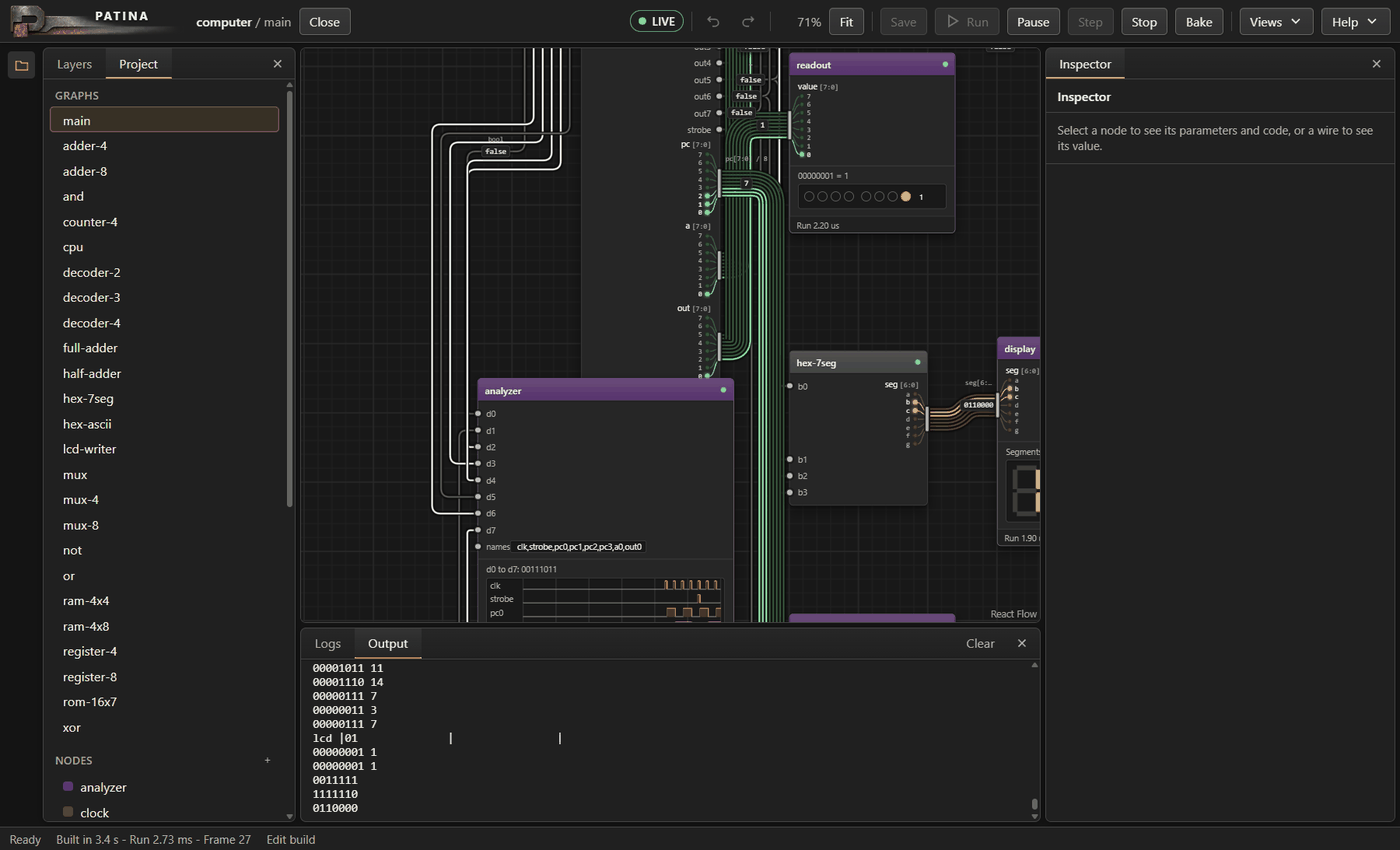
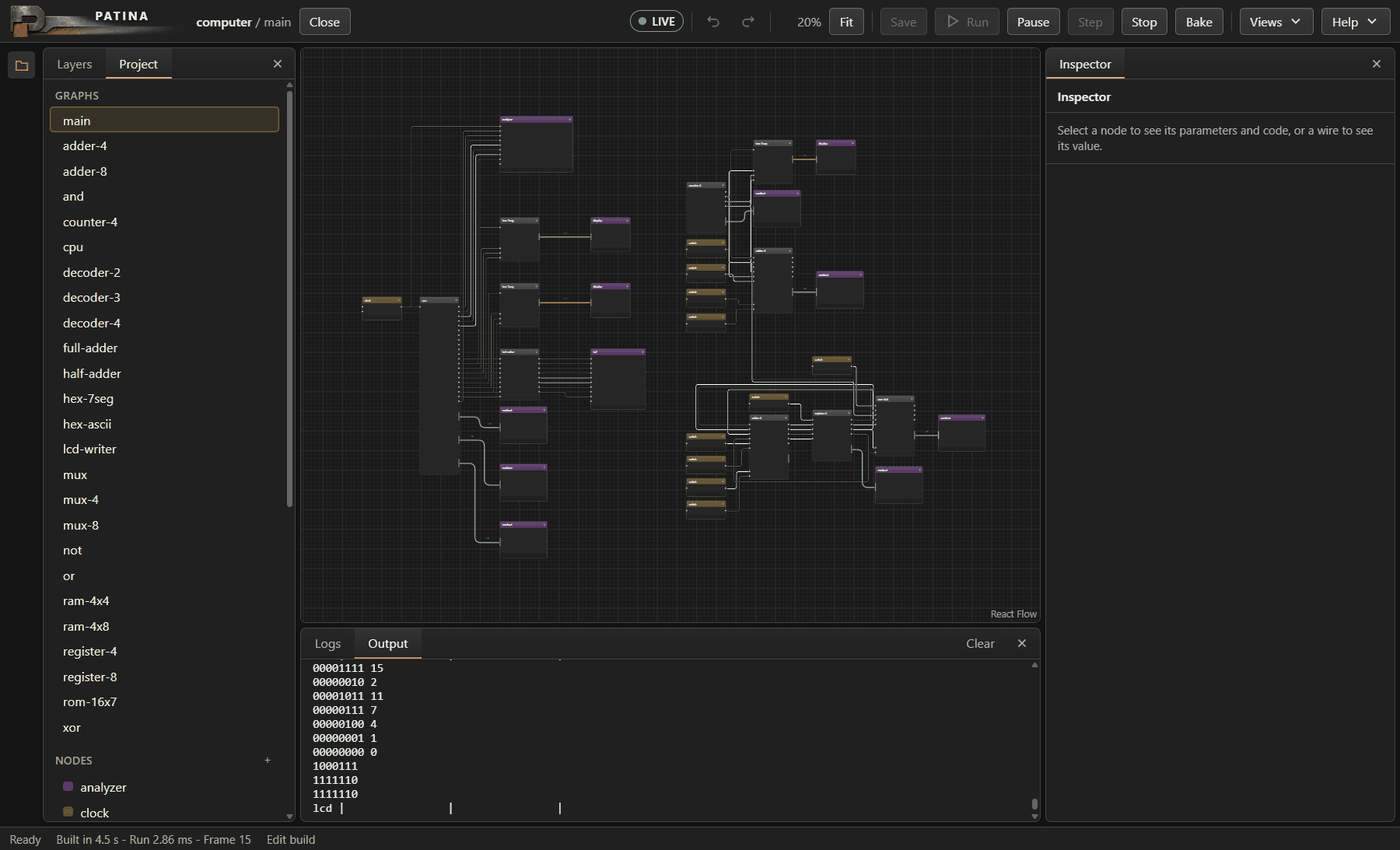
Lay out the computer main graph in wide bands and hide covered badges
- Put the CPU, the displays and the LCD at the left, the counter and the
  adder at the upper right, and the accumulator and the RAM at the lower
  right. The CPU bits now go straight to the lcd-writer.
- Give the lcd process the args d0 to d7 first, then write and clear.
- Hide a value badge when the shown badge of another wire covers it.
- Show the type of the input for a delay output, so a register wire
  shows bool and not T. This applies in the engine infos and the editor.
- Update the README images and the STATUS plan.

diff --git a/crates/patina-editor/frontend/src/labels.ts b/crates/patina-editor/frontend/src/labels.ts
@@ -9,6 +9,7 @@ interface Entry {
   /** A lower rank shows first. A label with a rank below 0 always shows. */
   rank: number;
   hidden: boolean;
+  badgeHidden: boolean;
 }
 
 const overlap = (a: Rect, b: Rect) => a.l < b.r && b.l < a.r && a.t < b.b && b.t < a.b;
@@ -28,7 +29,7 @@ export class Labels {
   set(id: string, label: Rect | null, badge: Rect | null, rank: number) {
     const e = this.entries.get(id);
     if (e) Object.assign(e, { label, badge, rank });
-    else this.entries.set(id, { id, label, badge, rank, hidden: false });
+    else this.entries.set(id, { id, label, badge, rank, hidden: false, badgeHidden: false });
     this.queue();
   }
 
@@ -42,6 +43,8 @@ export class Labels {
   }
 
   hidden = (id: string): boolean => this.entries.get(id)?.hidden ?? false;
+
+  badgeHidden = (id: string): boolean => this.entries.get(id)?.badgeHidden ?? false;
 
   subscribe = (f: () => void) => {
     this.listeners.add(f);
@@ -57,24 +60,31 @@ export class Labels {
     });
   }
 
-  /** Shows the labels in the order of their rank. Each label hides when a shown box covers it. */
+  /**
+   * Shows the badges, then the labels, in the order of their rank. A badge hides when a shown badge
+   * covers it. A label hides when a shown box covers it.
+   */
   compute() {
     const order = this.order;
     order.length = 0;
     let changed = false;
-    for (const e of this.entries.values()) {
-      if (e.label) order.push(e);
-      else if (e.hidden) [e.hidden, changed] = [false, true];
-    }
+    for (const e of this.entries.values()) order.push(e);
     order.sort((a, b) => a.rank - b.rank || (a.id < b.id ? -1 : a.id > b.id ? 1 : 0));
+    const shown = (o: Entry) => o.badge !== null && !o.badgeHidden;
     for (let i = 0; i < order.length; i++) {
       const e = order[i];
-      const box = e.label!;
       let hide = false;
-      if (e.rank >= 0) {
+      if (e.badge && e.rank >= 0) for (let j = 0; j < i && !hide; j++) hide = shown(order[j]) && overlap(e.badge, order[j].badge!);
+      if (e.badgeHidden !== hide) [e.badgeHidden, changed] = [hide, true];
+    }
+    for (let i = 0; i < order.length; i++) {
+      const e = order[i];
+      const box = e.label;
+      let hide = false;
+      if (box && e.rank >= 0) {
         hide = this.rects.some((r) => overlap(box, r));
-        for (const o of this.entries.values()) if (!hide && o !== e && o.badge) hide = overlap(box, o.badge);
-        for (let j = 0; j < i && !hide; j++) hide = !order[j].hidden && overlap(box, order[j].label!);
+        for (let j = 0; j < order.length && !hide; j++) hide = j !== i && shown(order[j]) && overlap(box, order[j].badge!);
+        for (let j = 0; j < i && !hide; j++) hide = !order[j].hidden && order[j].label !== null && overlap(box, order[j].label!);
       }
       if (e.hidden !== hide) [e.hidden, changed] = [hide, true];
     }

diff --git a/crates/patina-editor/frontend/src/palette.test.ts b/crates/patina-editor/frontend/src/palette.test.ts
@@ -2,7 +2,7 @@
 
 import assert from 'node:assert/strict';
 import { test } from 'node:test';
-import { matchNodes, matchPin, wireType } from './palette.ts';
+import { matchNodes, matchPin, outputTypeOf, wireType } from './palette.ts';
 
 const nodes = ['show', 'number', 'sum', 'Noise'].map((name) => ({ name }));
 const names = (query: string) => matchNodes(nodes, query).map((n) => n.name);
@@ -40,4 +40,13 @@ test('a pin matches the wire type, with no reference and with String for &str', 
   assert.equal(matchPin(add, true, 'String'), undefined, 'no pin of the type');
   assert.equal(matchPin(delay, true, 'Vec<u8>'), 'value', 'a generic pin joins all types');
   assert.equal(matchPin(delay, false, 'f64'), 'out');
+});
+
+test('a delay output has the type of its input wire, also through a loop of delays', () => {
+  const add = { inputs: [], outputs: [{ key: 'out', ty: 'f64' }], generics: [] };
+  const delay = { inputs: [{ key: 'value', ty: 'T' }], outputs: [{ key: 'out', ty: 'T' }], generics: ['T'] };
+  const pins = (id: string) => (id === 'a' ? add : delay);
+  const wires = new Map([['d1.value', 'a.out'], ['d2.value', 'd1.out'], ['d3.value', 'd4.out'], ['d4.value', 'd3.out']]);
+  const ty = (from: string) => outputTypeOf(from, pins, (to) => wires.get(to));
+  assert.deepEqual(['a.out', 'd1.out', 'd2.out', 'd3.out', 'd5.out'].map(ty), ['f64', 'f64', 'f64', 'T', 'T']);
 });

diff --git a/crates/patina-editor/frontend/src/NodeView.tsx b/crates/patina-editor/frontend/src/NodeView.tsx
@@ -7,6 +7,7 @@ import type { Socket } from './bus';
 import { BusSocket, socketBar, socketHeight, socketPin } from './BusSocket';
 import { FAR_ZOOM } from './gl';
 import { ExpandButton, NodeGui } from './NodeGui';
+import { outputTypeOf } from './palette';
 import { nodeWidth } from './gui';
 
 export type NodeState = 'none' | 'ready' | 'compiling' | 'compile-error' | 'run-error' | 'stale' | 'skipped' | 'unresolved';
@@ -169,9 +170,11 @@ export function infoOf(entry: NodeEntry, nodes: NodeInfo[]): NodeInfo | null {
 
 /** The Rust type of output `from`, "<node id>.<output key>", or undefined when its node does not read. */
 export function outputType(view: View, from: string): string | undefined {
-  const dot = from.lastIndexOf('.');
-  const entry = view.graph.node?.find((n) => n.id === from.slice(0, dot));
-  return (entry && infoOf(entry, view.nodes))?.outputs.find((p) => p.key === from.slice(dot + 1))?.ty;
+  const pins = (id: string) => {
+    const entry = view.graph.node?.find((n) => n.id === id);
+    return entry && infoOf(entry, view.nodes);
+  };
+  return outputTypeOf(from, pins, (to) => view.graph.wire?.find((w) => w.to === to)?.from);
 }
 
 function StateIcon({ state }: { state: NodeState }) {

diff --git a/crates/patina-editor/frontend/src/palette.ts b/crates/patina-editor/frontend/src/palette.ts
@@ -31,3 +31,19 @@ export function matchPin(node: Pins, output: boolean, ty: string): string | unde
   const fits = (pinTy: string) => node.generics.includes(pinTy) || wireType(pinTy) === wireType(ty);
   return (output ? node.inputs : node.outputs).find((p) => fits(p.ty))?.key;
 }
+
+/**
+ * The Rust type of output `from`, "<node id>.<output key>". A generic output, as of a delay, has the
+ * type of the wire into an input of the same type (4.5). `wireTo` gives the source of the wire to an input.
+ */
+export function outputTypeOf(from: string, pins: (id: string) => Pins | null | undefined, wireTo: (to: string) => string | undefined, seen: string[] = []): string | undefined {
+  const dot = from.lastIndexOf('.');
+  const id = from.slice(0, dot);
+  const node = pins(id);
+  const ty = node?.outputs.find((p) => p.key === from.slice(dot + 1))?.ty;
+  if (ty === undefined || !node!.generics.includes(ty) || seen.includes(from)) return ty;
+  const input = node!.inputs.find((p) => p.ty === ty);
+  const source = input && wireTo(`${id}.${input.key}`);
+  const found = source === undefined ? undefined : outputTypeOf(source, pins, wireTo, [...seen, from]);
+  return found ?? ty;
+}

diff --git a/crates/patina-editor/frontend/src/WireLayer.tsx b/crates/patina-editor/frontend/src/WireLayer.tsx
@@ -120,6 +120,7 @@ export function WireEdge({ id, sourceX, sourceY, targetX, targetY, selected, dat
   }, [labels, id, label, badge, badgeRoom, room, mx, my, above, selected, ribbon, named]);
   useLayoutEffect(() => () => labels.remove(id), [labels, id]);
   const covered = useSyncExternalStore(labels.subscribe, () => labels.hidden(id));
+  const badgeCovered = useSyncExternalStore(labels.subscribe, () => labels.badgeHidden(id));
   // The lane under the pointer (15.9). The hit area covers the full ribbon.
   const leave = () => {
     if (hover.get()?.wire === id) hover.set(null);
@@ -154,7 +155,7 @@ export function WireEdge({ id, sourceX, sourceY, targetX, targetY, selected, dat
             {label}
           </div>
         )}
-        {badge !== undefined && (
+        {badge !== undefined && !badgeCovered && (
           <div
             className={`wire-value${old ? ' stale' : ''}${selected ? ' selected' : ''}`}
             style={{ transform: `translate(${mx}px, ${my}px) translate(-50%, -50%)`, maxWidth: badgeRoom }}

diff --git a/crates/patina-editor/frontend/src/labels.test.ts b/crates/patina-editor/frontend/src/labels.test.ts
@@ -32,3 +32,18 @@ test('a covered wire label hides, by its rank', () => {
   labels.compute();
   assert.equal(labels.hidden('type'), false);
 });
+
+test('a covered badge hides, and a hidden badge does not hide a label', () => {
+  const labels = new Labels();
+  labels.set('a', null, box(0, 0), 2);
+  labels.set('b', null, box(20, 4), 2);
+  labels.set('c', box(45, 4), box(200, 0), 2);
+  labels.compute();
+  assert.deepEqual(['a', 'b'].map(labels.badgeHidden), [false, true]);
+  assert.equal(labels.hidden('c'), false);
+  // A selected badge always shows, so it hides the badge of a and the label of c.
+  labels.set('b', null, box(20, 4), -1);
+  labels.compute();
+  assert.deepEqual(['a', 'b'].map(labels.badgeHidden), [true, false]);
+  assert.equal(labels.hidden('c'), true);
+});

diff --git a/crates/patina-engine/src/subgraph.rs b/crates/patina-engine/src/subgraph.rs
@@ -221,10 +221,23 @@ fn end_type(root: &Path, graph: &GraphFile, end: &str, input: bool, stack: &mut 
         _ => return None,
     };
     let ty = match input {
-        true => node.inputs.into_iter().find(|i| i.key == key).map(|i| i.value),
+        true => node.inputs.iter().find(|i| i.key == key).map(|i| i.value.clone()),
         false => node.output_keys().into_iter().zip(node.output_types).find(|(k, _)| k == key).map(|(_, ty)| ty),
-    };
-    Some((ty?, node.generics))
+    }?;
+    // A generic output, as of a delay, has the type of the wire into an input of the same type (4.5).
+    let seen = format!("#{end}");
+    if !input && node.generics.contains(&ty) && !stack.contains(&seen) {
+        let to = node.inputs.iter().find(|i| i.value == ty).map(|i| format!("{id}.{}", i.key));
+        if let Some(from) = to.and_then(|to| graph.wire.iter().find(|w| w.to == to)).map(|w| w.from.clone()) {
+            stack.push(seen);
+            let found = end_type(root, graph, &from, false, stack);
+            stack.pop();
+            if let Some((found, of)) = found.filter(|(found, of)| !of.contains(found)) {
+                return Some((found, of));
+            }
+        }
+    }
+    Some((ty, node.generics))
 }
 
 /// Moves the nodes `ids` of `graph` into a new subgraph `name` (6.1). Gives the outer graph, with
@@ -589,6 +602,22 @@ folder = \"nodes/gate\"
 [[node]]
 id = \"00000000000000a2\"
 folder = \"nodes/pick\"
+[[node]]
+id = \"00000000000000a3\"
+builtin = \"delay\"
+[[wire]]
+from = \"00000000000000a1.out\"
+to = \"00000000000000a3.value\"
+[[output]]
+key = \"0000000c\"
+name = \"q\"
+pos = [0.0, 0.0]
+from = \"00000000000000a3.out\"
+[[output]]
+key = \"0000000d\"
+name = \"p\"
+pos = [0.0, 0.0]
+from = \"00000000000000a2.out\"
                     [[input]]
 key = \"0000000a\"
 name = \"a\"
@@ -606,6 +635,9 @@ to = [\"00000000000000a2.a\"]
         std::fs::remove_dir_all(&root).unwrap();
         let types: Vec<&str> = infos[0].inputs.iter().map(|p| p.ty.as_str()).collect();
         assert_eq!((types, &infos[0].generics[..]), (vec!["bool", "T"], &["T".to_owned()][..]));
+        // A delay output takes the type of its input wire. An output of a generic node stays generic.
+        let outs: Vec<&str> = infos[0].outputs.iter().map(|p| p.ty.as_str()).collect();
+        assert_eq!(outs, ["bool", "T"]);
     }
 
     #[test]

diff --git a/examples/computer/nodes/lcd/src/lib.rs b/examples/computer/nodes/lcd/src/lib.rs
@@ -62,8 +62,9 @@ const FONT: &[(char, [u8; 7])] = &[
 const UNKNOWN: [u8; 7] = [0x1F, 0x11, 0x11, 0x11, 0x11, 0x11, 0x1F];
 
 /// A display of 2 lines of 16 characters, as a character LCD. When `write` is on, it puts the
-/// ASCII character of bits d7 to d0 at the cursor. After the last cell, the lines move up one
-/// line. `clear` empties the display first. It writes the two lines to the standard output.
+/// ASCII character of bits d0 to d7 at the cursor, with d0 as the low bit. After the last cell, the
+/// lines move up one line. `clear` empties the display first. It writes the two lines to the
+/// standard output.
 #[node(color = "#59366f")]
 pub struct Lcd {
     cells: [u8; 2 * COLS],
@@ -76,7 +77,7 @@ impl Lcd {
     }
 
     #[allow(clippy::too_many_arguments)]
-    pub fn process(&mut self, d7: &bool, d6: &bool, d5: &bool, d4: &bool, d3: &bool, d2: &bool, d1: &bool, d0: &bool, write: &bool, clear: &bool) {
+    pub fn process(&mut self, d0: &bool, d1: &bool, d2: &bool, d3: &bool, d4: &bool, d5: &bool, d6: &bool, d7: &bool, write: &bool, clear: &bool) {
         if *clear {
             *self = Lcd::init();
         }

diff --git a/docs/spec/15-editor.md b/docs/spec/15-editor.md
@@ -437,6 +437,7 @@ A connection shows the value that it carries while the graph runs. Connections a
   - The name of a bus is the wire name, else the name of the source pin of a subgraph use, else the name of the target input, else the label of the kind. The label above the ribbon is "name[n-1:0] / n". The **Inspector** shows a **Name** field for the selected wire. A wire of one line shows its name in place of the type label, for example the opcode lines `JMP` and `JZ` of a CPU. Agent decision of 2026-11-16. The owner can change it.
   - The label above a wire fits between the nodes at its two ends and between the corners that turn up into it. It cuts its text with "...". A label with less than 24 px hides, because the sockets show the names. A selected wire shows all of its label. (Agent decision, 2026-11-16. The owner can change it.)
   - A label hides when a node body, the value badge of another wire or a label of a higher rank covers it. The rank from high to low is: the selected wire, a bus, a wire name, a type label. Of two labels with the same rank, the label of the wire with the lower id shows, so the choice does not change between frames. (Agent decision, 2026-11-16. The owner can change it.)
+  - A value badge hides when the shown badge of another wire covers it, by the same rank and id order. A hidden badge does not hide a label. Select the wire to see its badge. (Agent decision, 2026-11-16. The owner can change it.)
   - The name of a lane is its name in the kind (6.3), else its bit number.
   - An input or output of a type whose kind gives `lanes` is a bus socket. The socket shows the pin name and the lane range, for example "data[7:0]", and one contact for each lane at a pitch of 12 px, lane 0 at the top. Each contact shows the lane name and an LED of the lane state.
   - A public pin of such a type in an open subgraph (6.4) is a bus socket too. It shows the lanes of the value at that pin of the use. (Agent decision, 2026-11-16. The owner can change it.)

diff --git a/STATUS.md b/STATUS.md
@@ -90,6 +90,11 @@ The model is synchronous: one frame is one clock step, and a delay node is a D f
 26. Done: a value badge cuts its text to the room between the nodes, as the label does, but
     keeps at least 32 px. Before, a long badge on a short wire covered the pin names. The
     `hello` and `gpu` graphs now have the column gap of **Arrange**.
+27. Done: a wide main graph. The CPU, its displays and the LCD are at the left. The counter and
+    the adder are at the upper right, and the accumulator and the RAM at the lower right. The
+    CPU bits go straight to the `lcd-writer`, and the `lcd` takes d0 first. A badge hides when
+    the badge of another wire covers it. A delay output shows the type of its input, so a
+    wire from a register shows `bool` and not `T`.
 
 ### Checked
 

diff --git a/examples/computer/README.md b/examples/computer/README.md
@@ -3,8 +3,6 @@
 A small 8-bit computer, made of NAND gates. The style is the style of a digital logic
 simulator: each gate, adder, register and memory is a subgraph that you can open.
 
-This example is in progress. The text and the images will change.
-
 ![The main graph of the computer in the editor](images/editor.png)
 
 ## Run the example
@@ -57,7 +55,7 @@ The subgraphs, from small to large:
 - **Output:** `hex-7seg`, `hex-ascii`, `lcd-writer`.
 - **The computer:** `cpu`.
 
-![The readouts, the logic analyzer and the hex display of the main graph](images/readouts.png)
+![The CPU, a hex display, the LCD writer, the LCD and a readout of the main graph](images/readouts.png)
 
 ## The instruction set
 
